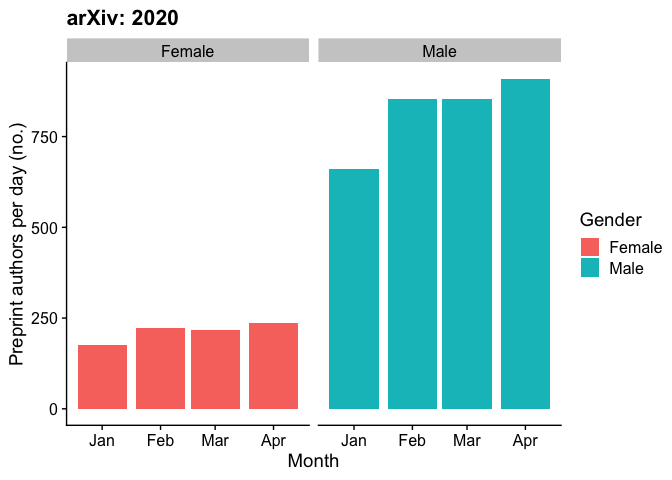
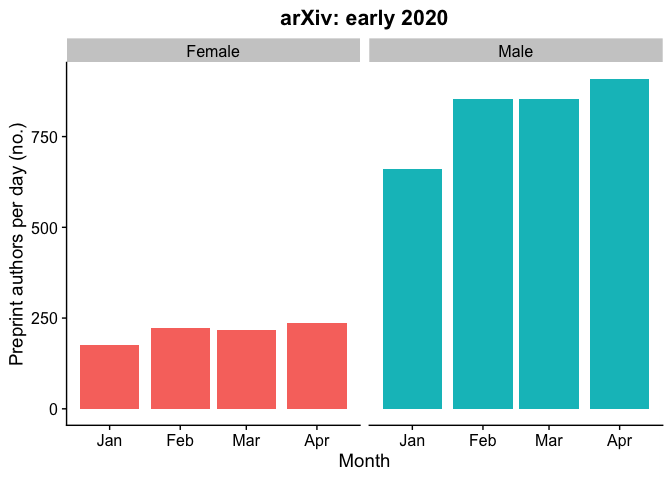
Commit from RStudio

diff --git a/README.md b/README.md
@@ -26,10 +26,10 @@ which is the main preprint server for physics, math, computer science,
 statistics, and other quantitative disciplines. I began by scraping all
 records for March 15-April 15, 2020, during the COVID-19 pandemic, and
 for the same date range in 2019. I then expanded to the same dates in
-2018 and 2017. Finally, I scraped all the data for Jan. 1-March 15,
-2020, immediately before the pandemic, and updated the pandemic data
-with the most recent dates (April 16-22, 2020). I scraped the data in
-batches, as recommended in the aRxiv package tutorial.
+2018. Finally, I scraped all the data for Jan. 1-March 15, 2020,
+immediately before the pandemic, and updated the pandemic data with the
+most recent dates (April 16-22, 2020). I scraped the data in batches, as
+recommended in the aRxiv package tutorial.
 
 ``` r
 #Not run
@@ -168,12 +168,12 @@ split.names <- function(x){strsplit(as.character(x), "|", fixed=TRUE)}
 #For the year over year dataset
 df.full$split.names <- lapply(df.full$authors, split.names)
 
-tmp <- NULL
-all_first_names <- word(unlist(df.full$split.names),1)
-head(all_first_names)
-gender <- gender(all_first_names, method = "ssa")
-gender <- unique(gender[ , c(1,2,4)])
+all_first_names <- word(unlist(df.full$split.names),1) #Make a list of all first author names
+gender <- gender(all_first_names, method = "ssa") #Assign gender
+gender <- unique(gender[ , c(1,2,4)]) #Keep only unique names
 
+#This loop is an inelegant way of counting the number of male and female authors for each paper
+tmp <- NULL
 for(i in 1:length(df.full$authors)){
   tmp <- as.data.frame(word(unlist(df.full$split.names[[i]]), 1))
   colnames(tmp) <- "name"
@@ -229,6 +229,14 @@ p1
 
 ![](README_files/figure-gfm/Visualize%20data-1.png)<!-- -->
 
+``` r
+#Just compare 2019 and 2020
+p2 <- ggplot(data=subset(all.long, year != 2018), aes(fill=as.factor(year), y=number, x=Gender))+geom_bar(position="dodge", stat="identity")+theme_cowplot()+xlab("Gender")+ylab("Authors (no.)")+labs(fill="Year")+scale_fill_manual(values = wes_palette("Royal1"), labels=c("Mar/Apr 2019", "Mar/Apr 2020"))+ggtitle("arXiv: 2019 vs 2020, all authors")+theme(legend.position = c(0.1, 0.9), legend.title = element_blank(), plot.title = element_text(hjust = 0.5))+annotate("text", x=c(1, 2),  y=c(6850,23900), label = paste0("+", round(all.t$per.dif.1920[1:2], 1), "%"))
+p2
+```
+
+![](README_files/figure-gfm/Visualize%20data-2.png)<!-- -->
+
 ### Sole arXiv authors
 
 How many preprints were sole-authored by a male versus a female academic
@@ -245,11 +253,18 @@ sole.long <- gather(sole.wide, year, number, `2018`:`2020`)
 sole.wide$per.dif.1920 <- (sole.wide$`2020`/sole.wide$`2019`)*100-100
 sole.wide$per.dif.1819 <- (sole.wide$`2019`/sole.wide$`2018`)*100-100
 
-p2 <- ggplot(data=sole.long, aes(fill=as.factor(year), y=number, x=gender))+geom_bar(position="dodge", stat="identity")+theme_cowplot()+xlab("Gender")+ylab("Authors (no.)")+labs(fill="Year")+scale_fill_manual(values = wes_palette("Royal1"), labels=c("Mar/Apr 2018", "Mar/Apr 2019", "Mar/Apr 2020"))+ggtitle("arXiv: sole authors")+theme(legend.position = c(0.1, 0.9), legend.title = element_blank(), plot.title = element_text(hjust = 0.5))+annotate("text", x=c(1.15, 2.15),  y=c(680,2600), label = paste0("+", round(sole.wide$per.dif.1920[1:2], 1), "%"))+annotate("text", x=c(0.8, 1.8), y=c(620,2350), label = paste0("+", round(sole.wide$per.dif.1819[1:2], 1), "%"))+theme(legend.position="none")
-p2
+p3 <- ggplot(data=sole.long, aes(fill=as.factor(year), y=number, x=gender))+geom_bar(position="dodge", stat="identity")+theme_cowplot()+xlab("Gender")+ylab("Authors (no.)")+labs(fill="Year")+scale_fill_manual(values = wes_palette("Royal1"), labels=c("Mar/Apr 2018", "Mar/Apr 2019", "Mar/Apr 2020"))+ggtitle("arXiv: sole authors")+theme(legend.position = c(0.1, 0.9), legend.title = element_blank(), plot.title = element_text(hjust = 0.5))+annotate("text", x=c(1.15, 2.15),  y=c(680,2600), label = paste0("+", round(sole.wide$per.dif.1920[1:2], 1), "%"))+annotate("text", x=c(0.8, 1.8), y=c(620,2350), label = paste0("+", round(sole.wide$per.dif.1819[1:2], 1), "%"))+theme(legend.position="none")
+p3
 ```
 
 ![](README_files/figure-gfm/Sole%20authors-1.png)<!-- -->
+
+``` r
+p4 <- ggplot(data=subset(sole.long, year != 2018), aes(fill=as.factor(year), y=number, x=gender))+geom_bar(position="dodge", stat="identity")+theme_cowplot()+xlab("Gender")+ylab("Authors (no.)")+labs(fill="Year")+scale_fill_manual(values = wes_palette("Royal1"), labels=c("Mar/Apr 2019", "Mar/Apr 2020"))+ggtitle("arXiv: 2019 vs 2020, sole authors")+theme(legend.position = c(0.1, 0.9), legend.title = element_blank(), plot.title = element_text(hjust = 0.5))+annotate("text", x=c(1, 2),  y=c(680,2600), label = paste0("+", round(sole.wide$per.dif.1920[1:2], 1), "%"))+theme(legend.position="none")
+p4
+```
+
+![](README_files/figure-gfm/Sole%20authors-2.png)<!-- -->
 
 ### Pre- and during-COVID-19 in the year 2020
 
@@ -272,8 +287,8 @@ min <- as.Date(as.character(covid.start), format="%Y-%m-%d")-length(unique(df.al
 arxiv.w.long$gender <- as.factor(arxiv.w.long$gender)
 levels(arxiv.w.long$gender) <- c("Female", "Male")
 
-p3 <- ggplot(data=subset(arxiv.w.long, year(week) == 2020), aes(color=gender, y=n, x=week))+geom_rect(aes(xmin=as.Date(covid.start), xmax=as.Date("2020-04-22"), ymin=-Inf, ymax=Inf), alpha=0.2, fill="gainsboro", color="gainsboro")+geom_point()+geom_smooth(data=subset(arxiv.w.long, year(week) == 2020 & week != "2020-04-12"), aes(color=gender, y=n, x=week), se=FALSE)+theme_cowplot()+ggtitle("arXiv: 2020")+xlab("Date")+ylab("Authors (no.)")+labs(color="Gender")
-p3
+p5 <- ggplot(data=subset(arxiv.w.long, year(week) == 2020), aes(color=gender, y=n, x=week))+geom_rect(aes(xmin=as.Date(covid.start), xmax=as.Date("2020-04-22"), ymin=-Inf, ymax=Inf), alpha=0.2, fill="gainsboro", color="gainsboro")+geom_point()+geom_smooth(data=subset(arxiv.w.long, year(week) == 2020 & week != "2020-04-12"), aes(color=gender, y=n, x=week), se=FALSE)+theme_cowplot()+ggtitle("arXiv: 2020")+xlab("Date")+ylab("Authors (no.)")+labs(color="Gender")
+p5
 ```
 
     ## `geom_smooth()` using method = 'loess' and formula 'y ~ x'
@@ -288,8 +303,8 @@ arxiv.m.long$pubs.per.day <- arxiv.m.long$n/arxiv.m.long$n.days
 arxiv.m.long$gender <- as.factor(arxiv.m.long$gender)
 levels(arxiv.m.long$gender) <- c("Female", "Male")
 
-p8 <- ggplot(data=arxiv.m.long, aes(fill=gender, y=pubs.per.day, x=month))+geom_bar(position="dodge", stat="identity")+theme_cowplot()+ggtitle("arXiv: 2020")+xlab("Month")+ylab("Preprint authors per day (no.)")+labs(fill="Gender")+facet_grid(~gender)
-p8
+p6 <- ggplot(data=arxiv.m.long, aes(fill=gender, y=pubs.per.day, x=month))+geom_bar(position="dodge", stat="identity")+theme_cowplot()+ggtitle("arXiv: early 2020")+xlab("Month")+ylab("Preprint authors per day (no.)")+labs(fill="Gender")+facet_grid(~gender)+theme(legend.position="none", plot.title = element_text(hjust = 0.5))
+p6
 ```
 
 ![](README_files/figure-gfm/2020%20analysis-2.png)<!-- -->
@@ -380,16 +395,25 @@ biorxiv.yr.long$year <- as.factor(biorxiv.yr.long$year)
 biorxiv.yr.wide$per.dif.1920 <- (biorxiv.yr.wide$`2020`/biorxiv.yr.wide$`2019`)*100-100
 biorxiv.yr.wide$per.dif.1819 <- (biorxiv.yr.wide$`2019`/biorxiv.yr.wide$`2018`)*100-100
 
-p4 <- ggplot(data=biorxiv.yr.long, aes(fill=as.factor(year), y=number, x=as.factor(gender)))+geom_bar(position="dodge", stat="identity")+theme_cowplot()+xlab("Gender")+ylab("Authors (no.)")+labs(fill="Year")+scale_fill_manual(values = wes_palette("Royal1"))+ggtitle("bioRxiv: corresponding authors")+theme(plot.title = element_text(hjust = 0.5))+annotate("text", x=c(1.1,2.1),  y=c(1100,2650), label = paste0("+", round(biorxiv.yr.wide$per.dif.1920 ,1), "%"))+annotate("text", x=c(0.8,1.8),  y=c(900,2150), label = paste0("+", round(biorxiv.yr.wide$per.dif.1819,1), "%"))+theme(legend.position="none")
-p4
+p7 <- ggplot(data=biorxiv.yr.long, aes(fill=as.factor(year), y=number, x=as.factor(gender)))+geom_bar(position="dodge", stat="identity")+theme_cowplot()+xlab("Gender")+ylab("Authors (no.)")+labs(fill="Year")+scale_fill_manual(values = wes_palette("Royal1"))+ggtitle("bioRxiv: corresponding authors")+theme(plot.title = element_text(hjust = 0.5))+annotate("text", x=c(1.1,2.1),  y=c(1100,2650), label = paste0("+", round(biorxiv.yr.wide$per.dif.1920 ,1), "%"))+annotate("text", x=c(0.8,1.8),  y=c(900,2150), label = paste0("+", round(biorxiv.yr.wide$per.dif.1819,1), "%"))+theme(legend.position="none")
+p7
 ```
 
 ![](README_files/figure-gfm/Visualize%20biorxiv%20data-1.png)<!-- -->
 
 ``` r
-p5 <- plot_grid(p1, p2, p4, nrow=1)
-save_plot("plot.png", p5, base_height=8, base_width=16)
+p8 <- ggplot(data=subset(biorxiv.yr.long, year != 2018), aes(fill=as.factor(year), y=number, x=as.factor(gender)))+geom_bar(position="dodge", stat="identity")+theme_cowplot()+xlab("Gender")+ylab("Authors (no.)")+labs(fill="Year")+scale_fill_manual(values = wes_palette("Royal1"))+ggtitle("bioRxiv: 2019 vs 2020")+theme(plot.title = element_text(hjust = 0.5))+annotate("text", x=c(1,2),  y=c(1100,2650), label = paste0("+", round(biorxiv.yr.wide$per.dif.1920, 1), "%"))+theme(legend.position="none")
+p8
 ```
+
+![](README_files/figure-gfm/Visualize%20biorxiv%20data-2.png)<!-- -->
+
+``` r
+p9 <- plot_grid(p2, p4, p8, nrow=1)
+p9
+```
+
+![](README_files/figure-gfm/Visualize%20biorxiv%20data-3.png)<!-- -->
 
 ``` r
 biorxiv.d <- subset(df.b.all2020, !is.na(gender)) %>% group_by(date, gender) %>% summarize(n=n())
@@ -399,8 +423,8 @@ biorxiv.w <-biorxiv.d %>% group_by(week, gender) %>% summarize(sum=sum(n))
 biorxiv.w$gender <- as.factor(biorxiv.w$gender)
 levels(biorxiv.w$gender) <- c("Female", "Male")
 
-p6 <- ggplot(data=subset(biorxiv.w, year(week) == 2020), aes(color=gender, y=sum, x=week))+geom_rect(aes(xmin=as.Date(covid.start), xmax=as.Date("2020-04-22"), ymin=-Inf, ymax=Inf), alpha=0.2, fill="gainsboro", color="gainsboro")+geom_point()+geom_smooth(span=1, se=FALSE)+theme_cowplot()+ggtitle("bioRxiv: 2020")+xlab("Date")+ylab("Authors (no.)")+labs(color="Gender")
-p6
+p10 <- ggplot(data=subset(biorxiv.w, year(week) == 2020), aes(color=gender, y=sum, x=week))+geom_rect(aes(xmin=as.Date(covid.start), xmax=as.Date("2020-04-22"), ymin=-Inf, ymax=Inf), alpha=0.2, fill="gainsboro", color="gainsboro")+geom_point()+geom_smooth(span=1, se=FALSE)+theme_cowplot()+ggtitle("bioRxiv: 2020")+xlab("Date")+ylab("Authors (no.)")+labs(color="Gender")
+p10
 ```
 
     ## `geom_smooth()` using method = 'loess' and formula 'y ~ x'
@@ -413,19 +437,26 @@ biorxiv.m <- subset(df.b.all2020, !is.na(gender)) %>% group_by(month, gender) %>
 biorxiv.m$gender <- as.factor(biorxiv.m$gender)
 levels(biorxiv.m$gender) <- c("Female", "Male")
 
-p7 <- ggplot(data=biorxiv.m, aes(fill=gender, y=pubs.per.day, x=month))+geom_bar(position="dodge", stat="identity")+theme_cowplot()+ggtitle("bioRxiv: 2020")+xlab("Month")+ylab("Preprint authors per day (no.)")+labs(fill="Gender")+facet_grid(~gender)
-p7
+p11 <- ggplot(data=biorxiv.m, aes(fill=gender, y=pubs.per.day, x=month))+geom_bar(position="dodge", stat="identity")+theme_cowplot()+ggtitle("bioRxiv: early 2020")+xlab("Month")+ylab("Preprint authors per day (no.)")+facet_grid(~gender)+theme(legend.position="none", plot.title = element_text(hjust = 0.5))
+p11
 ```
 
 ![](README_files/figure-gfm/unnamed-chunk-1-2.png)<!-- -->
 
 ``` r
-p8 <- plot_grid(p8, p7, nrow=1)
-p8
+p12 <- plot_grid(p6, p11, nrow=1)
+p12
 ```
 
 ![](README_files/figure-gfm/unnamed-chunk-1-3.png)<!-- -->
 
 ``` r
-save_plot("plot2.png", p8, base_height=8, base_width=16)
+p13 <- plot_grid(p9, p12, nrow=2)
+p13
+```
+
+![](README_files/figure-gfm/unnamed-chunk-1-4.png)<!-- -->
+
+``` r
+save_plot("figure.png", p13, base_height=16, base_width=16)
 ```
